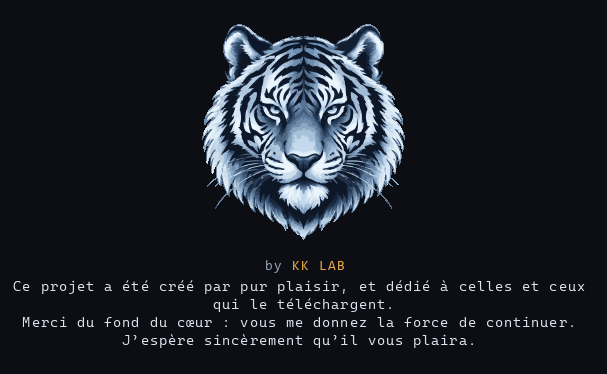
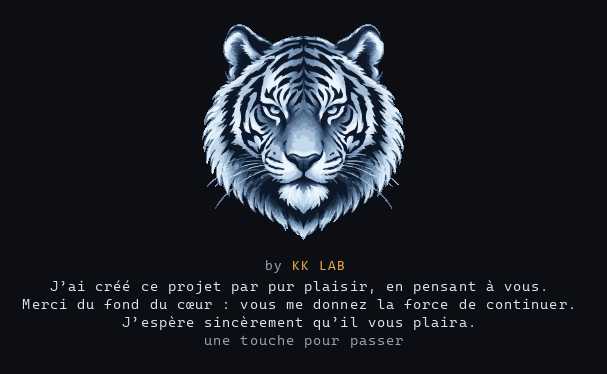
Say the intro's first sentence more naturally
« J’ai créé ce projet par pur plaisir, en pensant à vous. » replaces the stiff « dédié à celles et ceux qui le téléchargent »; the screenshot carries the new note and its skip hint.

Changed region(s): [[0.0297, 0.7353, 0.9786, 0.9412]]

diff --git a/dist/intro.js b/dist/intro.js
@@ -3,7 +3,7 @@ import { waitFrame } from "./frame-clock.js";
 import { imagesAllowed, mascotAspect, mascotBlocks, mascotHeight, mascotSixel, parseGraphics, queryTerminal } from "./mascot-render.js";
 /** The note, one sentence per line; on a narrow terminal, a sentence wraps between its pieces. */
 const NOTE = [
-    ['Ce projet a été créé', 'par pur plaisir,', 'et dédié à celles et ceux', 'qui le téléchargent.'],
+    ['J’ai créé ce projet', 'par pur plaisir,', 'en pensant à vous.'],
     ['Merci du fond du cœur :', 'vous me donnez la force', 'de continuer.'],
     ['J’espère sincèrement', 'qu’il vous plaira.'],
 ];

diff --git a/src/intro.ts b/src/intro.ts
@@ -23,7 +23,7 @@ interface IntroInput {
 
 /** The note, one sentence per line; on a narrow terminal, a sentence wraps between its pieces. */
 const NOTE = [
-  ['Ce projet a été créé', 'par pur plaisir,', 'et dédié à celles et ceux', 'qui le téléchargent.'],
+  ['J’ai créé ce projet', 'par pur plaisir,', 'en pensant à vous.'],
   ['Merci du fond du cœur :', 'vous me donnez la force', 'de continuer.'],
   ['J’espère sincèrement', 'qu’il vous plaira.'],
 ];
